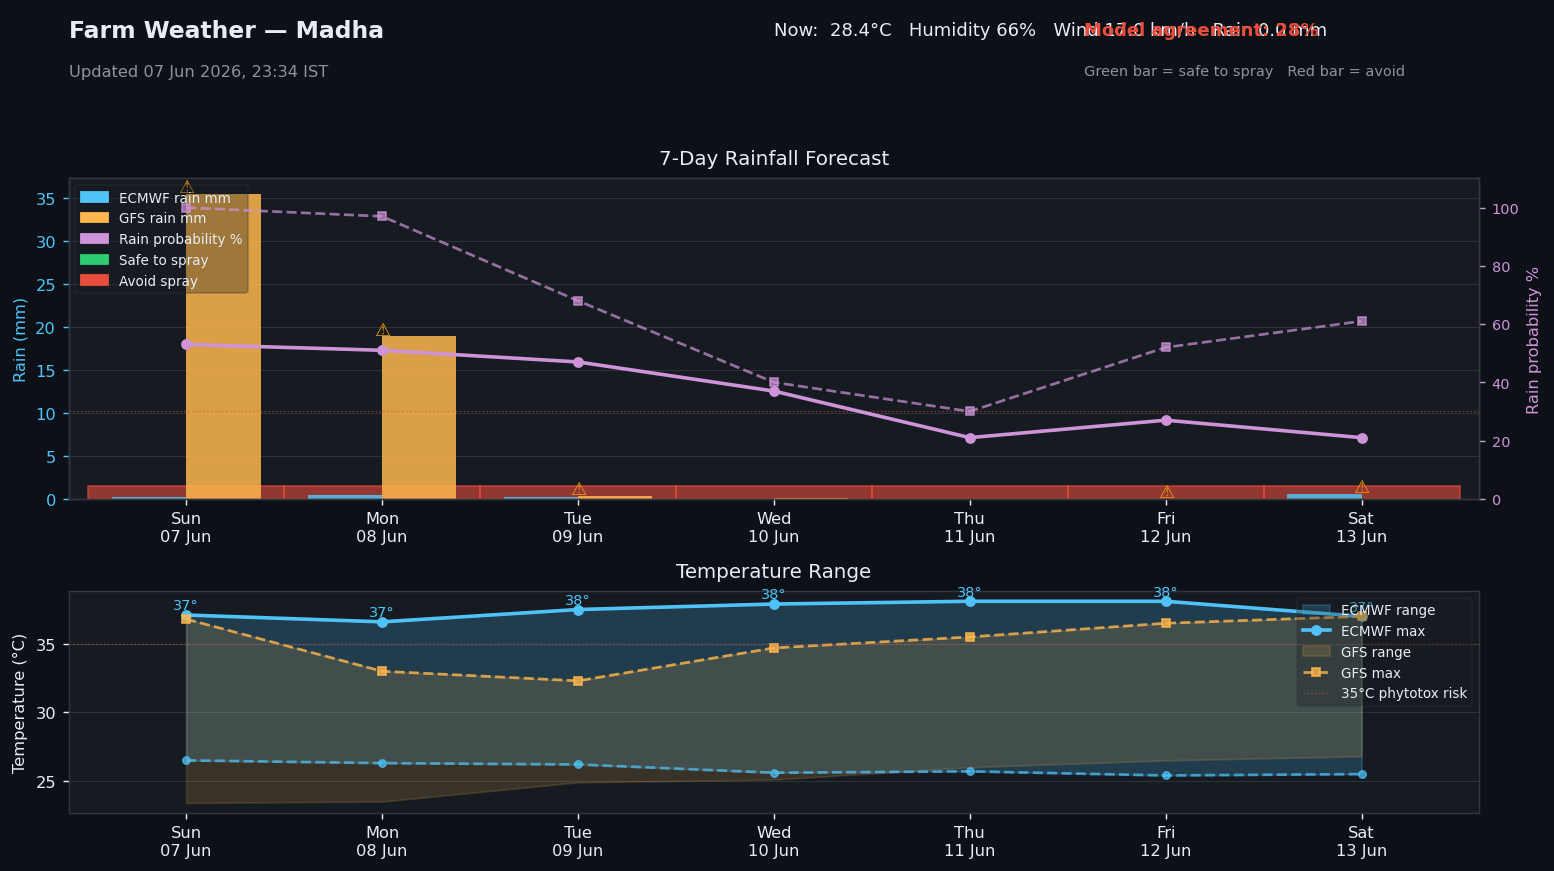
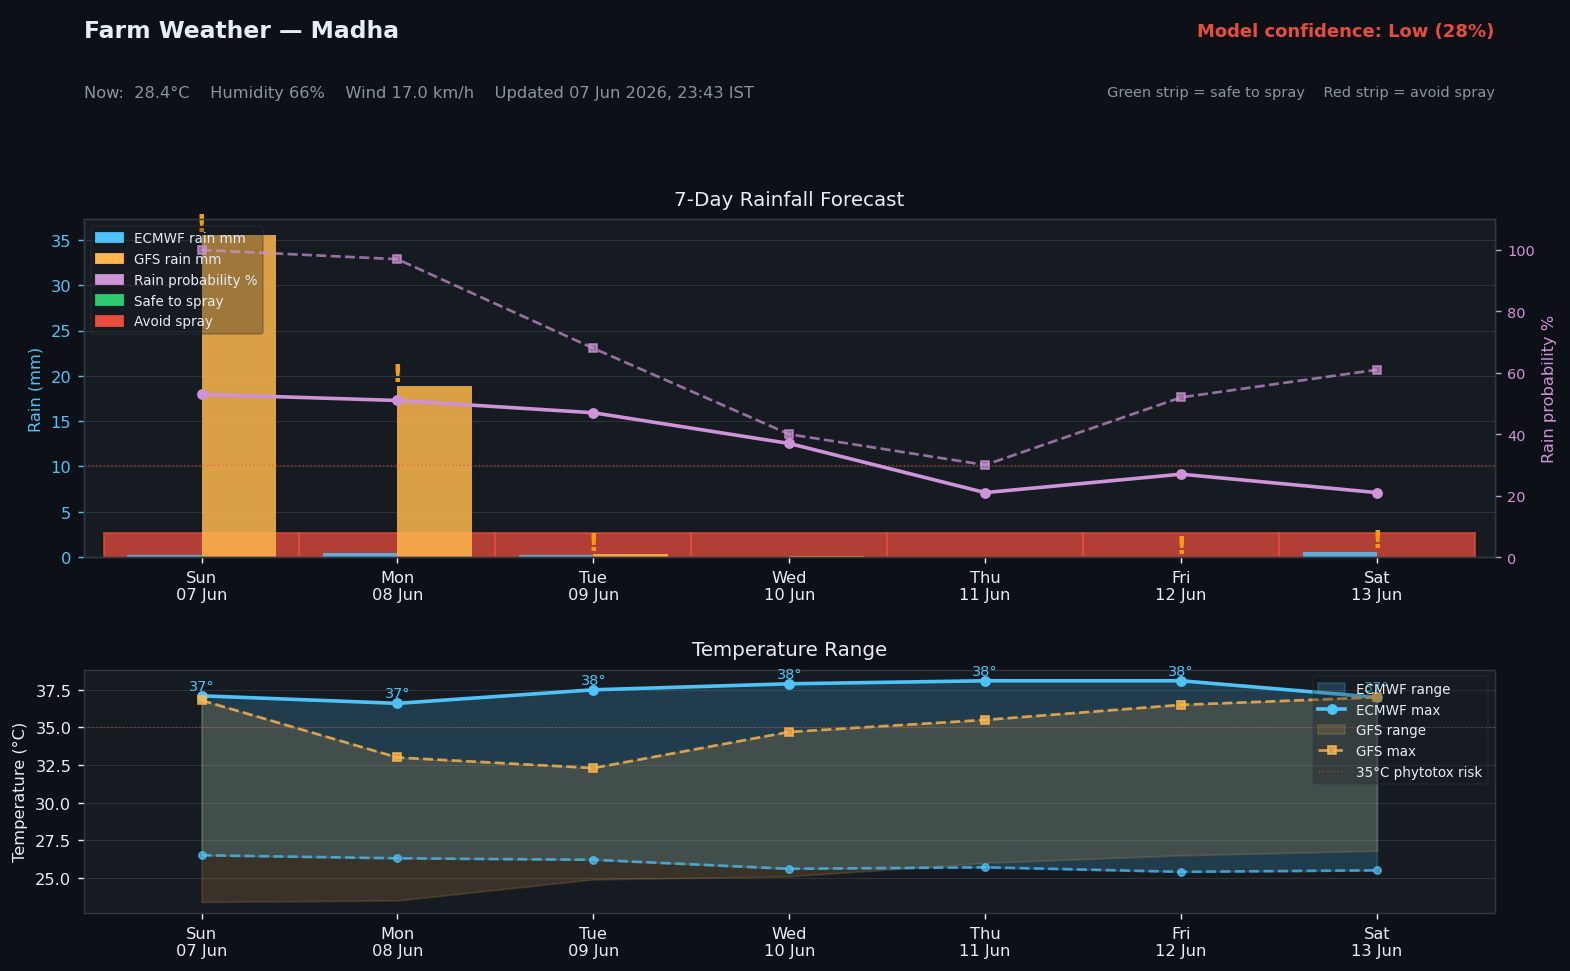
Fix weather dashboard layout and rendering issues
- Header: two clean rows, title+confidence on top, conditions+hint below
  (no more text overlap)
- Spray safety strip: increased height from 4% to 7% of axis
- Model disagreement marker: replaced non-rendering emoji with bold "!"
- Chart height increased slightly to give more breathing room

diff --git a/scripts/weather_chart.py b/scripts/weather_chart.py
@@ -150,11 +150,11 @@ def build_chart(lat: float, lon: float, name: str) -> None:
     ]
 
     # ── Figure layout ─────────────────────────────────────────────────────────
-    fig = plt.figure(figsize=(14, 8), facecolor="#0d1117")
+    fig = plt.figure(figsize=(14, 9), facecolor="#0d1117")
     gs  = gridspec.GridSpec(
         3, 1, figure=fig,
-        height_ratios=[0.12, 0.52, 0.36],
-        hspace=0.45,
+        height_ratios=[0.14, 0.50, 0.36],
+        hspace=0.50,
     )
 
     header_ax = fig.add_subplot(gs[0])
@@ -175,35 +175,36 @@ def build_chart(lat: float, lon: float, name: str) -> None:
         for spine in ax.spines.values():
             spine.set_edgecolor("#30363d")
 
-    # ── Header ────────────────────────────────────────────────────────────────
+    # ── Header (two rows, no overlapping) ─────────────────────────────────────
     header_ax.set_xlim(0, 1)
     header_ax.set_ylim(0, 1)
     header_ax.axis("off")
 
-    updated = datetime.now().strftime("%d %b %Y, %H:%M IST")
+    updated    = datetime.now().strftime("%d %b %Y, %H:%M IST")
     conf_color = "#2ecc71" if confidence >= 70 else "#f39c12" if confidence >= 50 else "#e74c3c"
+    conf_label = "High" if confidence >= 70 else "Medium" if confidence >= 50 else "Low"
 
-    header_ax.text(0.0, 0.75, f"Farm Weather — {name}",
+    # Row 1 — left: title | right: model confidence (well separated)
+    header_ax.text(0.0, 0.80, f"Farm Weather — {name}",
                    color=text_color, fontsize=13, fontweight="bold", va="center")
-    header_ax.text(0.0, 0.2, f"Updated {updated}",
-                   color=muted, fontsize=9, va="center")
+    header_ax.text(1.0, 0.80, f"Model confidence: {conf_label} ({confidence}%)",
+                   color=conf_color, fontsize=10, fontweight="bold",
+                   va="center", ha="right")
 
+    # Row 2 — left: current conditions | right: legend hint
     if now.get("temp_c") is not None:
-        summary = (
-            f"Now:  {now['temp_c']}°C   "
-            f"Humidity {now.get('humidity', '--')}%   "
-            f"Wind {now.get('wind_kmh', '--')} km/h   "
-            f"Rain {now.get('rain_mm', 0)} mm"
-        )
-        header_ax.text(0.5, 0.75, summary,
-                       color=text_color, fontsize=10, va="center")
+        header_ax.text(0.0, 0.15,
+                       f"Now:  {now['temp_c']}°C    Humidity {now.get('humidity','--')}%"
+                       f"    Wind {now.get('wind_kmh','--')} km/h"
+                       f"    Updated {updated}",
+                       color=muted, fontsize=9, va="center")
+    else:
+        header_ax.text(0.0, 0.15, f"Updated {updated}",
+                       color=muted, fontsize=9, va="center")
 
-    header_ax.text(0.72, 0.75,
-                   f"Model agreement: {confidence}%",
-                   color=conf_color, fontsize=10, fontweight="bold", va="center")
-    header_ax.text(0.72, 0.2,
-                   "Green bar = safe to spray   Red bar = avoid",
-                   color=muted, fontsize=8, va="center")
+    header_ax.text(1.0, 0.15,
+                   "Green strip = safe to spray    Red strip = avoid spray",
+                   color=muted, fontsize=8, va="center", ha="right")
 
     # ── Rain + Probability ─────────────────────────────────────────────────────
     ec_bars  = rain_ax.bar(x - bar_w/2, ec["rain_mm"],  bar_w,
@@ -211,10 +212,10 @@ def build_chart(lat: float, lon: float, name: str) -> None:
     gfs_bars = rain_ax.bar(x + bar_w/2, gfs["rain_mm"], bar_w,
                            color=[gfs_col]*len(x),   alpha=0.85, label="GFS (rain mm)")
 
-    # Spray safety overlay (colored bottom strip)
+    # Spray safety overlay (coloured strip at bottom of each day column)
     for i, col in enumerate(spray_colors):
-        rain_ax.axvspan(i - 0.5, i + 0.5, ymin=0, ymax=0.04,
-                        color=col, alpha=0.6, zorder=0)
+        rain_ax.axvspan(i - 0.5, i + 0.5, ymin=0, ymax=0.07,
+                        color=col, alpha=0.75, zorder=0)
 
     prob_ax2 = rain_ax.twinx()
     prob_ax2.set_facecolor(card_bg)
@@ -229,13 +230,14 @@ def build_chart(lat: float, lon: float, name: str) -> None:
     for spine in prob_ax2.spines.values():
         spine.set_edgecolor("#30363d")
 
-    # Disagreement markers
+    # Disagreement markers — use "!" instead of emoji (emoji needs special font)
     for i in range(len(dates)):
         diff_mm   = abs((ec["rain_mm"][i]   or 0) - (gfs["rain_mm"][i]   or 0))
         diff_prob = abs((ec["rain_prob"][i]  or 0) - (gfs["rain_prob"][i]  or 0))
         if diff_mm > 2.0 or diff_prob > 20:
-            rain_ax.text(i, max((ec["rain_mm"][i] or 0), (gfs["rain_mm"][i] or 0)) + 0.2,
-                         "⚠", ha="center", fontsize=10, color="#f39c12")
+            y_pos = max((ec["rain_mm"][i] or 0), (gfs["rain_mm"][i] or 0)) + 0.5
+            rain_ax.text(i, y_pos, "!", ha="center", fontsize=14,
+                         fontweight="bold", color="#f39c12")
 
     rain_ax.set_xticks(x)
     rain_ax.set_xticklabels(labels, color=text_color, fontsize=9)
